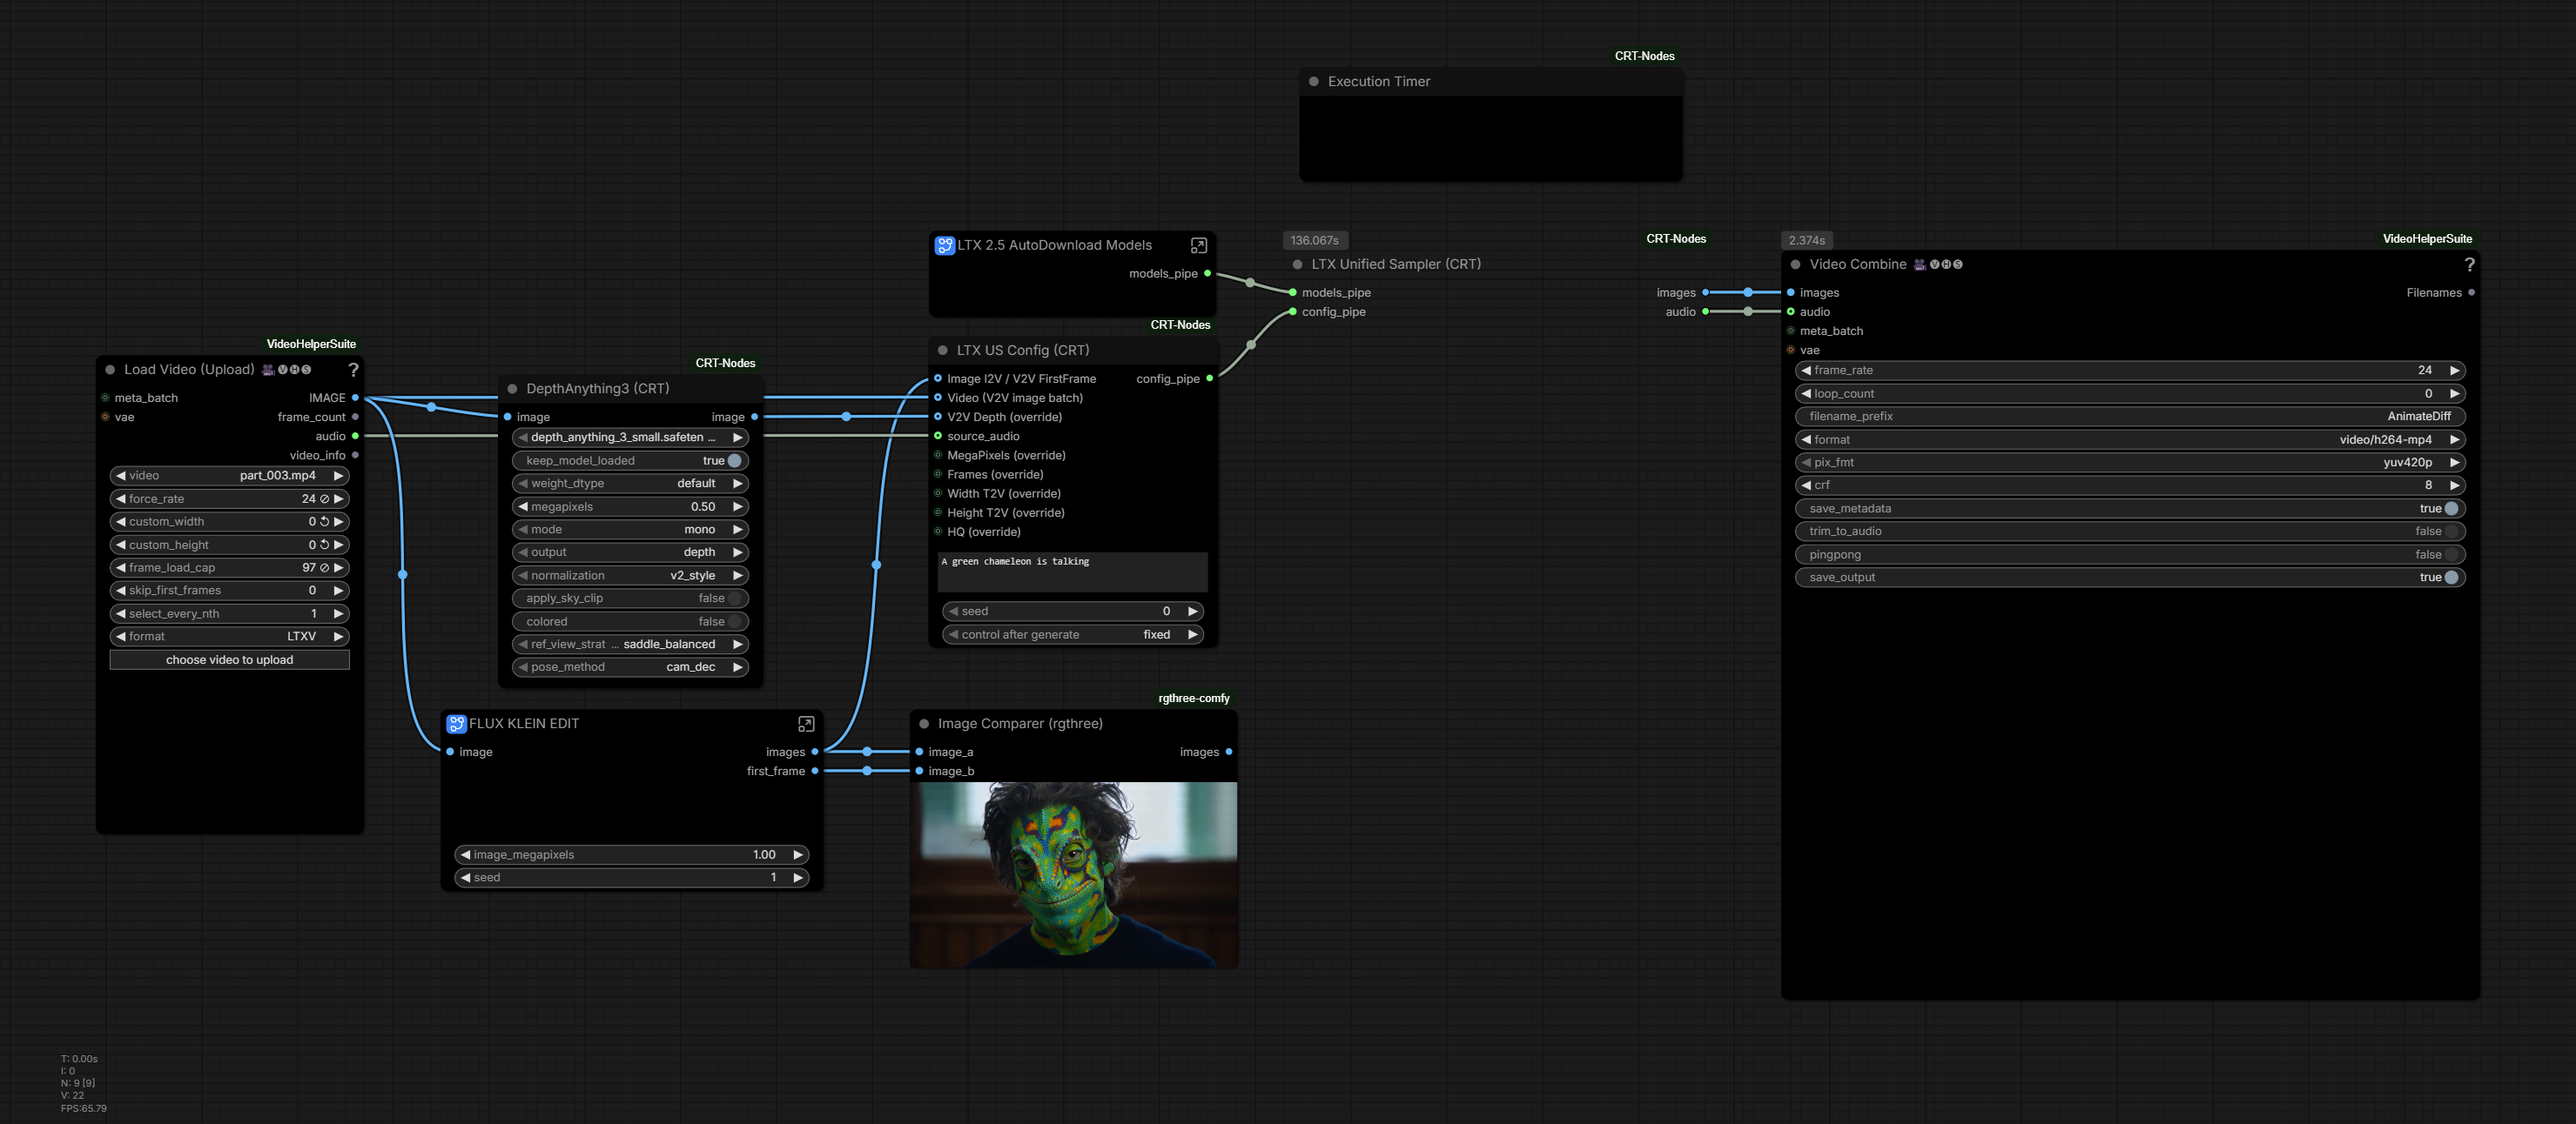
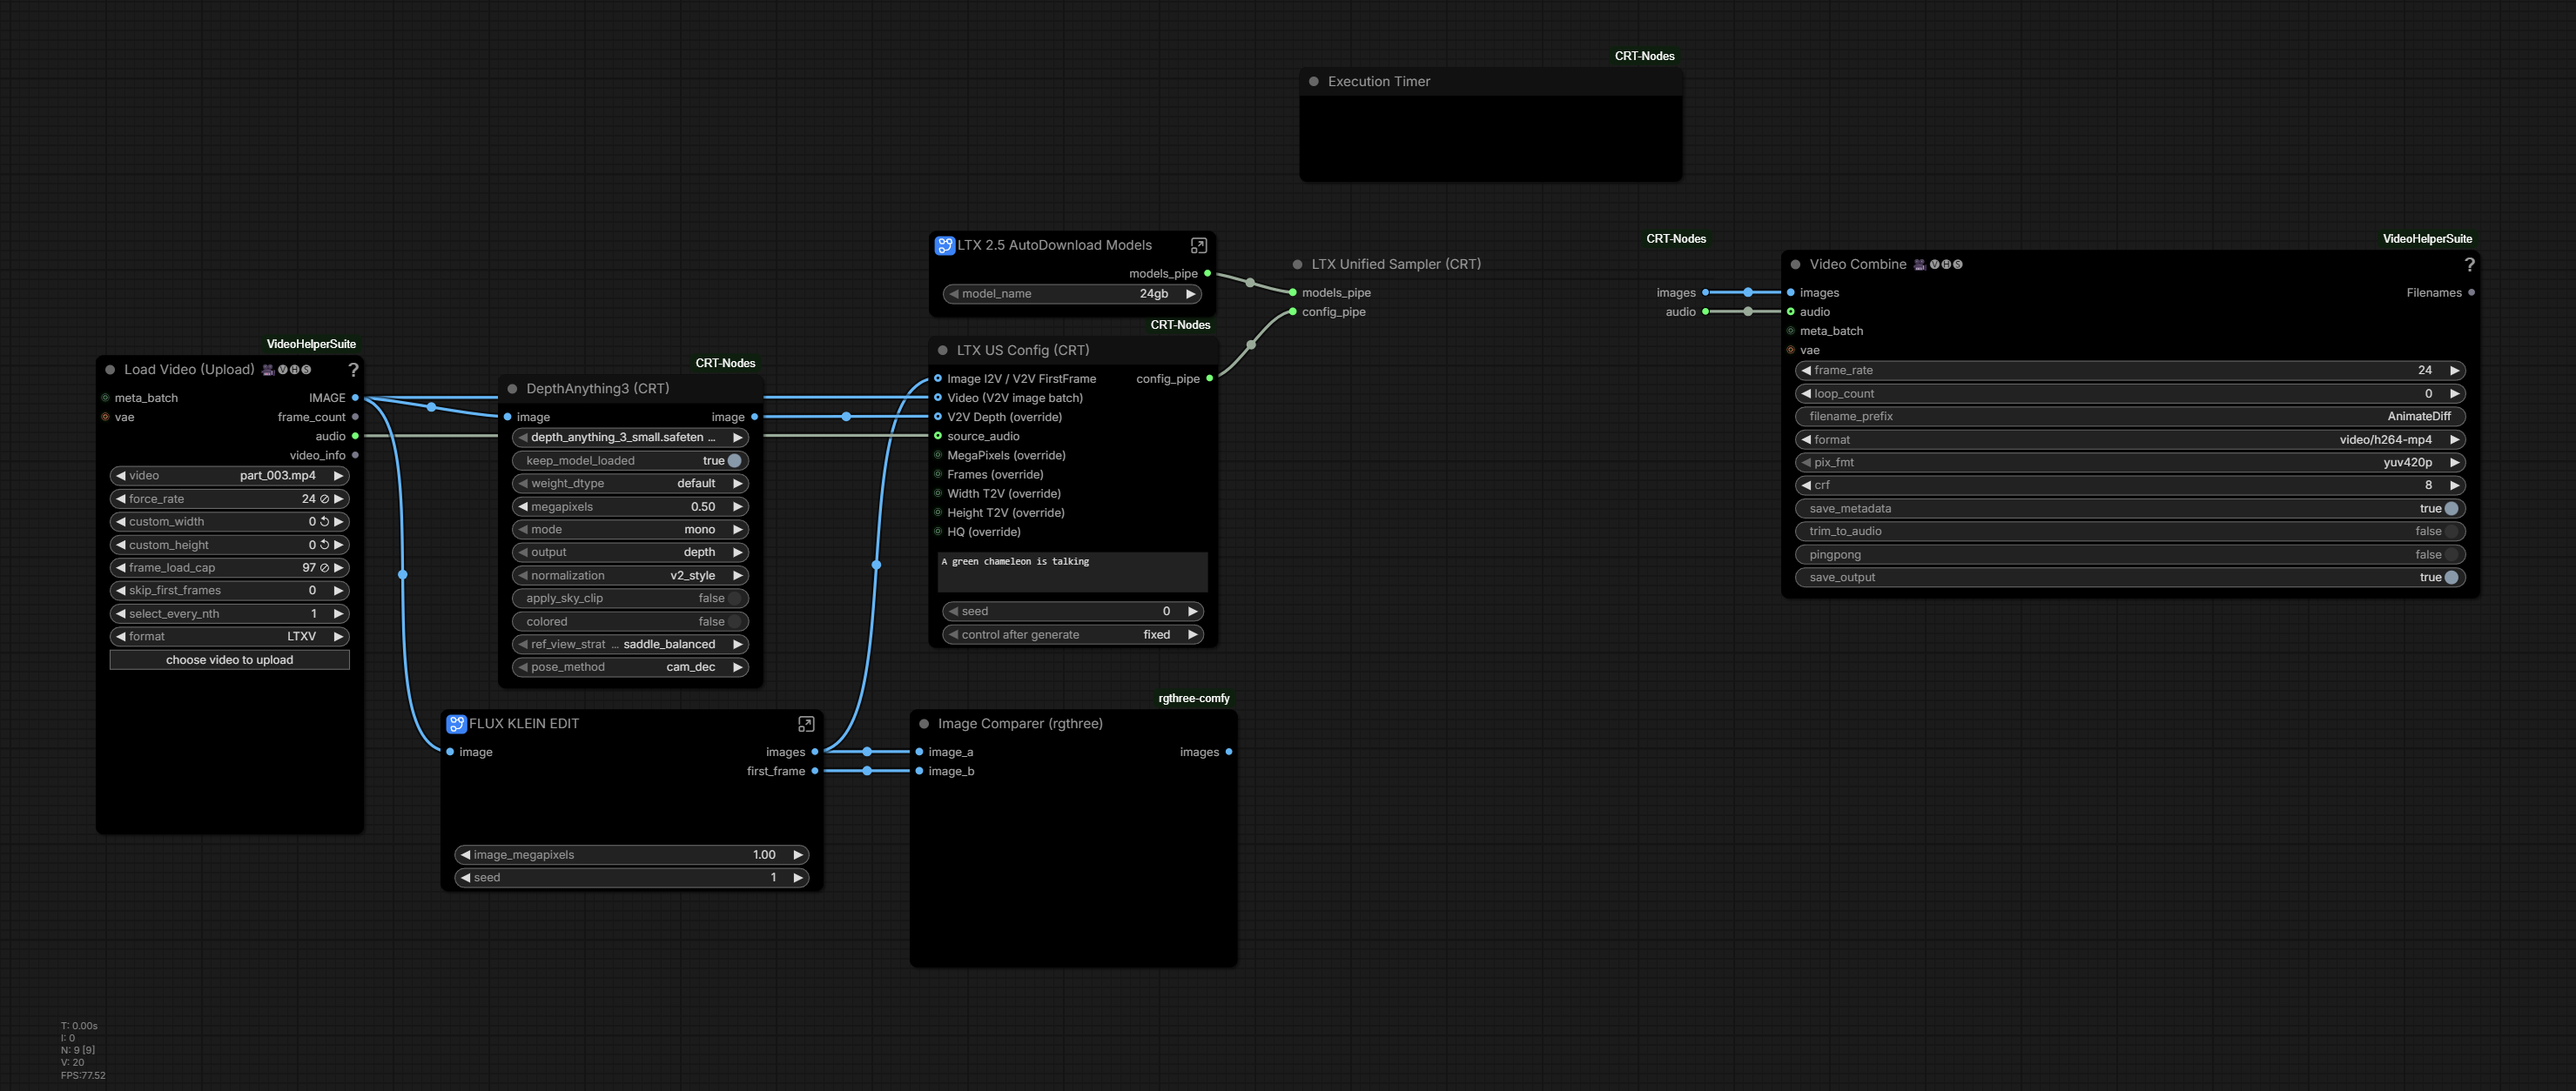
Add AutoDL selector nodes and update workflows

diff --git a/py/AutoDL_Nodes.py b/py/AutoDL_Nodes.py
@@ -503,6 +503,46 @@ class _FixedCLIPLoader:
         return (clip,)
 
 
+class _FixedDiffusionSelector(_FixedDiffusionLoader):
+    """Diffusion loader with a dropdown of model variants."""
+
+    OPTIONS: dict[str, str] = {}
+
+    @classmethod
+    def INPUT_TYPES(cls):
+        inputs = super().INPUT_TYPES()
+        names = list(cls.OPTIONS.keys())
+        new_required = {
+            "model_name": (names, {"default": names[0]}),
+        }
+        new_required.update(inputs["required"])
+        inputs["required"] = new_required
+        return inputs
+
+    def load_model(self, model_name, patch_cublaslinear, attention_method, enable_fp16_accumulation):
+        self.MODEL_KEY = self.OPTIONS[model_name]
+        return super().load_model(patch_cublaslinear, attention_method, enable_fp16_accumulation)
+
+
+class _FixedCLIPSelector(_FixedCLIPLoader):
+    """CLIP loader with a dropdown of variants."""
+
+    OPTIONS: dict[str, str] = {}
+
+    @classmethod
+    def INPUT_TYPES(cls):
+        names = list(cls.OPTIONS.keys())
+        return {
+            "required": {
+                "model_name": (names, {"default": names[0]}),
+            }
+        }
+
+    def load_clip(self, model_name):
+        self.MODEL_KEY = self.OPTIONS[model_name]
+        return super().load_clip()
+
+
 class _FixedCLIPVisionLoader:
     RETURN_TYPES = ("CLIP_VISION",)
     RETURN_NAMES = ("CLIP_VISION",)
@@ -736,14 +776,12 @@ class Flux2KleinHDRILoRA(_FixedLoRALoader):
     MODEL_KEY = "fluxklein_hdri_lora"
 
 
-class ErnieTurboModel(_FixedDiffusionLoader):
+class ErnieTurboModelSelector(_FixedDiffusionSelector):
     CATEGORY = "CRT/AutoDL/ERNIE"
-    MODEL_KEY = "ernie_turbo_model"
-
-
-class ErnieTurboNVFP4Model(_FixedDiffusionLoader):
-    CATEGORY = "CRT/AutoDL/ERNIE"
-    MODEL_KEY = "ernie_turbo_nvfp4_model"
+    OPTIONS = {
+        "Turbo": "ernie_turbo_model",
+        "Turbo NVFP4": "ernie_turbo_nvfp4_model",
+    }
 
 
 class ErnieModel(_FixedDiffusionLoader):
@@ -794,24 +832,14 @@ class ChronoEditCLIPVision(_FixedCLIPVisionLoader):
 
 
 # MiniMax H3
-class MiniMaxH3FL2VAModel(_FixedDiffusionLoader):
+class MiniMaxH3ModelSelector(_FixedDiffusionSelector):
     CATEGORY = "CRT/AutoDL/MINIMAXH3"
-    MODEL_KEY = "minimax_h3_model_fl2va"
-
-
-class MiniMaxH3REF2VAModel(_FixedDiffusionLoader):
-    CATEGORY = "CRT/AutoDL/MINIMAXH3"
-    MODEL_KEY = "minimax_h3_model_ref2va"
-
-
-class MiniMaxH3FL2VALightW4A8Model(_FixedDiffusionLoader):
-    CATEGORY = "CRT/AutoDL/MINIMAXH3"
-    MODEL_KEY = "minimax_h3_model_fl2va_w4a8"
-
-
-class MiniMaxH3REF2VALightW4A8Model(_FixedDiffusionLoader):
-    CATEGORY = "CRT/AutoDL/MINIMAXH3"
-    MODEL_KEY = "minimax_h3_model_ref2va_w4a8"
+    OPTIONS = {
+        "FL2VA": "minimax_h3_model_fl2va",
+        "FL2VA Light W4A8": "minimax_h3_model_fl2va_w4a8",
+        "REF2VA": "minimax_h3_model_ref2va",
+        "REF2VA Light W4A8": "minimax_h3_model_ref2va_w4a8",
+    }
 
 
 class MiniMaxH3AudioVAE(_FixedVAELoader):
@@ -824,37 +852,24 @@ class MiniMaxH3VideoVAE(_FixedVAELoader):
     MODEL_KEY = "minimax_h3_video_vae"
 
 
-class MiniMaxH3CLIPInt8(_FixedCLIPLoader):
+class MiniMaxH3CLIPSelector(_FixedCLIPSelector):
     CATEGORY = "CRT/AutoDL/MINIMAXH3"
-    MODEL_KEY = "minimax_h3_clip_int8"
     CLIP_TYPE = "minimax"
-
-
-class MiniMaxH3CLIPNVFP4(_FixedCLIPLoader):
-    CATEGORY = "CRT/AutoDL/MINIMAXH3"
-    MODEL_KEY = "minimax_h3_clip_nvfp4"
-    CLIP_TYPE = "minimax"
+    OPTIONS = {
+        "INT8": "minimax_h3_clip_int8",
+        "NVFP4": "minimax_h3_clip_nvfp4",
+    }
 
 
 # LTX2.5
-class LTX25Model(_FixedDiffusionLoader):
+class LTX25ModelSelector(_FixedDiffusionSelector):
     CATEGORY = "CRT/AutoDL/LTX2.5"
-    MODEL_KEY = "ltx25_model_32gb"
-
-
-class LTX25Model24GB(_FixedDiffusionLoader):
-    CATEGORY = "CRT/AutoDL/LTX2.5"
-    MODEL_KEY = "ltx25_model_24gb"
-
-
-class LTX25Model16GB4x8Mix(_FixedDiffusionLoader):
-    CATEGORY = "CRT/AutoDL/LTX2.5"
-    MODEL_KEY = "ltx25_model_16gb_4x8mix"
-
-
-class LTX25Model16GBNVFP4(_FixedDiffusionLoader):
-    CATEGORY = "CRT/AutoDL/LTX2.5"
-    MODEL_KEY = "ltx25_model_16gb_nvfp4"
+    OPTIONS = {
+        "24gb": "ltx25_model_24gb",
+        "32gb": "ltx25_model_32gb",
+        "16gb 4x8mix": "ltx25_model_16gb_4x8mix",
+        "16gb NVFP4": "ltx25_model_16gb_nvfp4",
+    }
 
 
 class LTX25AudioVAE(_FixedVAELoader):
@@ -935,8 +950,7 @@ NODE_CLASS_MAPPINGS = {
     "CRTAutoDLFlux2KleinVAE": Flux2KleinVAE,
     "CRTAutoDLFlux2KleinCLIP": Flux2KleinCLIP,
     "CRTAutoDLFlux2KleinHDRILoRA": Flux2KleinHDRILoRA,
-    "CRTAutoDLErnieTurboModel": ErnieTurboModel,
-    "CRTAutoDLErnieTurboNVFP4Model": ErnieTurboNVFP4Model,
+    "CRTAutoDLErnieTurboModelSelector": ErnieTurboModelSelector,
     "CRTAutoDLErnieModel": ErnieModel,
     "CRTAutoDLErnieVAE": ErnieVAE,
     "CRTAutoDLErnieCLIP": ErnieCLIP,
@@ -946,18 +960,11 @@ NODE_CLASS_MAPPINGS = {
     "CRTAutoDLChronoEditVAE": ChronoEditVAE,
     "CRTAutoDLChronoEditCLIP": ChronoEditCLIP,
     "CRTAutoDLChronoEditCLIPVision": ChronoEditCLIPVision,
-    "CRTAutoDLMiniMaxH3FL2VAModel": MiniMaxH3FL2VAModel,
-    "CRTAutoDLMiniMaxH3REF2VAModel": MiniMaxH3REF2VAModel,
-    "CRTAutoDLMiniMaxH3FL2VALightW4A8Model": MiniMaxH3FL2VALightW4A8Model,
-    "CRTAutoDLMiniMaxH3REF2VALightW4A8Model": MiniMaxH3REF2VALightW4A8Model,
+    "CRTAutoDLMiniMaxH3ModelSelector": MiniMaxH3ModelSelector,
     "CRTAutoDLMiniMaxH3AudioVAE": MiniMaxH3AudioVAE,
     "CRTAutoDLMiniMaxH3VideoVAE": MiniMaxH3VideoVAE,
-    "CRTAutoDLMiniMaxH3CLIPInt8": MiniMaxH3CLIPInt8,
-    "CRTAutoDLMiniMaxH3CLIPNVFP4": MiniMaxH3CLIPNVFP4,
-    "CRTAutoDLLTX25Model": LTX25Model,
-    "CRTAutoDLLTX25Model24GB": LTX25Model24GB,
-    "CRTAutoDLLTX25Model16GB4x8Mix": LTX25Model16GB4x8Mix,
-    "CRTAutoDLLTX25Model16GBNVFP4": LTX25Model16GBNVFP4,
+    "CRTAutoDLMiniMaxH3CLIPSelector": MiniMaxH3CLIPSelector,
+    "CRTAutoDLLTX25ModelSelector": LTX25ModelSelector,
     "CRTAutoDLLTX25AudioVAE": LTX25AudioVAE,
     "CRTAutoDLLTX25VideoVAE": LTX25VideoVAE,
     "CRTAutoDLLTX25CLIP": LTX25CLIP,
@@ -982,8 +989,7 @@ NODE_DISPLAY_NAME_MAPPINGS = {
     "CRTAutoDLFlux2KleinVAE": "Flux2Klein VAE (CRT AutoDL)",
     "CRTAutoDLFlux2KleinCLIP": "Flux2Klein CLIP (CRT AutoDL)",
     "CRTAutoDLFlux2KleinHDRILoRA": "Flux2Klein HDRI LoRA (CRT AutoDL)",
-    "CRTAutoDLErnieTurboModel": "ERNIE Turbo Model (CRT AutoDL)",
-    "CRTAutoDLErnieTurboNVFP4Model": "ERNIE Turbo NVFP4 Model (CRT AutoDL)",
+    "CRTAutoDLErnieTurboModelSelector": "ERNIE Turbo Model (CRT AutoDL)",
     "CRTAutoDLErnieModel": "ERNIE Model (CRT AutoDL)",
     "CRTAutoDLErnieVAE": "ERNIE VAE (CRT AutoDL)",
     "CRTAutoDLErnieCLIP": "ERNIE CLIP (CRT AutoDL)",
@@ -993,18 +999,11 @@ NODE_DISPLAY_NAME_MAPPINGS = {
     "CRTAutoDLChronoEditVAE": "ChronoEdit VAE (CRT AutoDL)",
     "CRTAutoDLChronoEditCLIP": "ChronoEdit CLIP - WAN (CRT AutoDL)",
     "CRTAutoDLChronoEditCLIPVision": "ChronoEdit CLIP Vision (CRT AutoDL)",
-    "CRTAutoDLMiniMaxH3FL2VAModel": "MiniMax H3 FL2VA Model (CRT AutoDL)",
-    "CRTAutoDLMiniMaxH3REF2VAModel": "MiniMax H3 REF2VA Model (CRT AutoDL)",
-    "CRTAutoDLMiniMaxH3FL2VALightW4A8Model": "MiniMax H3 FL2VA Light W4A8 (CRT AutoDL)",
-    "CRTAutoDLMiniMaxH3REF2VALightW4A8Model": "MiniMax H3 REF2VA Light W4A8 (CRT AutoDL)",
+    "CRTAutoDLMiniMaxH3ModelSelector": "MiniMax H3 Model (CRT AutoDL)",
     "CRTAutoDLMiniMaxH3AudioVAE": "MiniMax H3 AUDIO VAE (CRT AutoDL)",
     "CRTAutoDLMiniMaxH3VideoVAE": "MiniMax H3 VIDEO VAE (CRT AutoDL)",
-    "CRTAutoDLMiniMaxH3CLIPInt8": "MiniMax H3 CLIP INT8 (CRT AutoDL)",
-    "CRTAutoDLMiniMaxH3CLIPNVFP4": "MiniMax H3 CLIP NVFP4 (CRT AutoDL)",
-    "CRTAutoDLLTX25Model": "LTX2.5 Model 32gb (CRT AutoDL)",
-    "CRTAutoDLLTX25Model24GB": "LTX2.5 Model 24gb (CRT AutoDL)",
-    "CRTAutoDLLTX25Model16GB4x8Mix": "LTX2.5 Model 16gb 4x8mix (CRT AutoDL)",
-    "CRTAutoDLLTX25Model16GBNVFP4": "LTX2.5 Model 16gb NVFP4 (CRT AutoDL)",
+    "CRTAutoDLMiniMaxH3CLIPSelector": "MiniMax H3 CLIP (CRT AutoDL)",
+    "CRTAutoDLLTX25ModelSelector": "LTX2.5 Model (CRT AutoDL)",
     "CRTAutoDLLTX25AudioVAE": "LTX2.5 AUDIO VAE (CRT AutoDL)",
     "CRTAutoDLLTX25VideoVAE": "LTX2.5 VIDEO VAE (CRT AutoDL)",
     "CRTAutoDLLTX25CLIP": "LTX2.5 CLIP w4a8 Light (CRT AutoDL)",

diff --git a/py/download_progress.py b/py/download_progress.py
@@ -5,6 +5,7 @@ import os
 import re
 import shutil
 import sys
+import urllib.error
 import urllib.request
 from pathlib import Path
 from typing import Callable
@@ -41,6 +42,18 @@ else:
 _HF_URL_RE = re.compile(
     r"^https?://huggingface\.co/([^/]+/[^/]+)/(?:resolve|blob)/([^/]+)/(.+)$"
 )
+
+
+def _hf_token() -> str | None:
+    """Return an explicit HF_TOKEN, or the cached huggingface-cli token."""
+    token = os.environ.get("HF_TOKEN")
+    if token:
+        return token
+    try:
+        from huggingface_hub.utils import get_token
+        return get_token()
+    except Exception:
+        return None
 
 
 def _content_length(response) -> int:
@@ -138,12 +151,7 @@ def download_url_with_progress(
     if destination_path.is_file():
         return str(destination_path)
 
-    if _HF_URL_RE.match(url):
-        try:
-            return _hf_download_url(url, destination_path, label, console_prefix)
-        except ImportError:
-            pass
-
+    is_hf = bool(_HF_URL_RE.match(url))
     destination_path.parent.mkdir(parents=True, exist_ok=True)
     partial_path = (
         Path(temp_path)
@@ -151,10 +159,14 @@ def download_url_with_progress(
         else destination_path.with_name(f"{destination_path.name}.part")
     )
     display_name = label or destination_path.name
-    request = urllib.request.Request(
-        url,
-        headers={"User-Agent": user_agent},
-    )
+
+    headers = {"User-Agent": user_agent}
+    if is_hf:
+        token = _hf_token()
+        if token:
+            headers["Authorization"] = f"Bearer {token}"
+
+    request = urllib.request.Request(url, headers=headers)
     open_kwargs = {} if timeout is None else {"timeout": timeout}
 
     print(f"[{console_prefix}] Starting: {display_name}", flush=True)
@@ -211,6 +223,22 @@ def download_url_with_progress(
             )
 
         os.replace(partial_path, destination_path)
+    except urllib.error.HTTPError as exc:
+        try:
+            partial_path.unlink()
+        except OSError:
+            pass
+        if is_hf and exc.code in (401, 403):
+            print(
+                f"[{console_prefix}] urllib got {exc.code}; falling back to huggingface_hub for {display_name}",
+                flush=True,
+            )
+            try:
+                return _hf_download_url(url, destination_path, label, console_prefix)
+            except ImportError:
+                pass
+        print(f"[{console_prefix}] Failed: {display_name}", flush=True)
+        raise
     except Exception:
         try:
             partial_path.unlink()

diff --git a/__init__.py b/__init__.py
@@ -1,7 +1,7 @@
 """
 @author: CRT
 @title: CRT-Nodes
-@version: 2.9.3
+@version: 2.9.4
 @project: "https://github.com/PGCRT/CRT-Nodes",
 @description: Set of nodes for ComfyUI
 https://discord.gg/8wYS9MBQqp

diff --git a/README.md b/README.md
@@ -44,12 +44,11 @@ Restart ComfyUI after installation or an update.
 - `ChronoEdit Upscaler LoRA (CRT AutoDL)`
 - `ChronoEdit VAE (CRT AutoDL)`
 
-### CRT/AutoDL/ERNIE (5)
+### CRT/AutoDL/ERNIE (4)
 
 - `ERNIE CLIP (CRT AutoDL)`
 - `ERNIE Model (CRT AutoDL)`
 - `ERNIE Turbo Model (CRT AutoDL)`
-- `ERNIE Turbo NVFP4 Model (CRT AutoDL)`
 - `ERNIE VAE (CRT AutoDL)`
 
 ### CRT/AutoDL/FLUXKLEIN (4)
@@ -66,7 +65,7 @@ Restart ComfyUI after installation or an update.
 - `Krea 2 Turbo Model (CRT AutoDL)`
 - `Krea 2 VAE (CRT AutoDL)`
 
-### CRT/AutoDL/LTX2.5 (14)
+### CRT/AutoDL/LTX2.5 (11)
 
 - `LTX2.5 AUDIO VAE (CRT AutoDL)`
 - `LTX2.5 CLIP w4a8 Light (CRT AutoDL)`
@@ -75,23 +74,16 @@ Restart ComfyUI after installation or an update.
 - `LTX2.5 IC Outpaint LoRA (CRT AutoDL)`
 - `LTX2.5 IC Pixel Spatial Upscale LoRA (CRT AutoDL)`
 - `LTX2.5 IC Upscale LoRA (CRT AutoDL)`
-- `LTX2.5 Model 16gb 4x8mix (CRT AutoDL)`
-- `LTX2.5 Model 16gb NVFP4 (CRT AutoDL)`
-- `LTX2.5 Model 24gb (CRT AutoDL)`
-- `LTX2.5 Model 32gb (CRT AutoDL)`
+- `LTX2.5 Model (CRT AutoDL)`
 - `LTX2.5 Spatial Upscaler (CRT AutoDL)`
 - `LTX2.5 Temporal Upscaler (CRT AutoDL)`
 - `LTX2.5 VIDEO VAE (CRT AutoDL)`
 
-### CRT/AutoDL/MINIMAXH3 (8)
+### CRT/AutoDL/MINIMAXH3 (4)
 
+- `MiniMax H3 CLIP (CRT AutoDL)`
+- `MiniMax H3 Model (CRT AutoDL)`
 - `MiniMax H3 AUDIO VAE (CRT AutoDL)`
-- `MiniMax H3 CLIP INT8 (CRT AutoDL)`
-- `MiniMax H3 CLIP NVFP4 (CRT AutoDL)`
-- `MiniMax H3 FL2VA Light W4A8 (CRT AutoDL)`
-- `MiniMax H3 FL2VA Model (CRT AutoDL)`
-- `MiniMax H3 REF2VA Light W4A8 (CRT AutoDL)`
-- `MiniMax H3 REF2VA Model (CRT AutoDL)`
 - `MiniMax H3 VIDEO VAE (CRT AutoDL)`
 
 ### CRT/AutoDL/ZIMAGETURBO (3)
